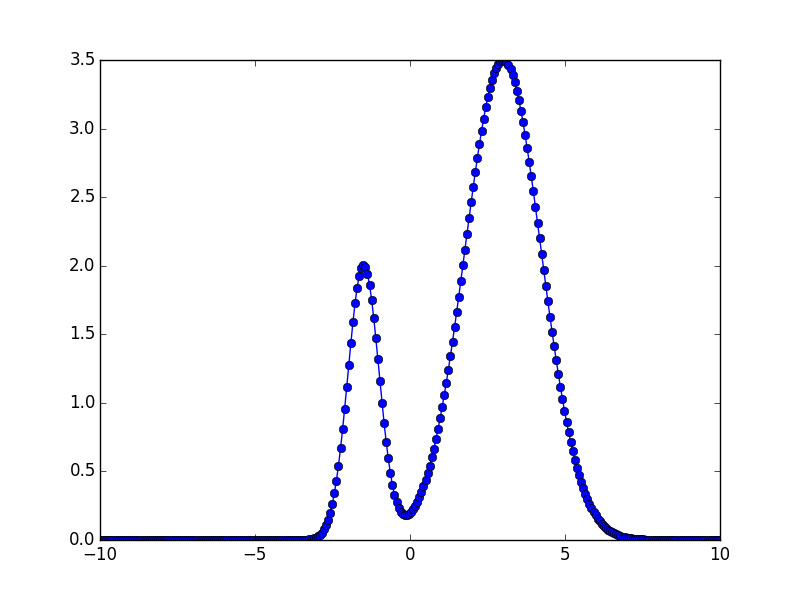
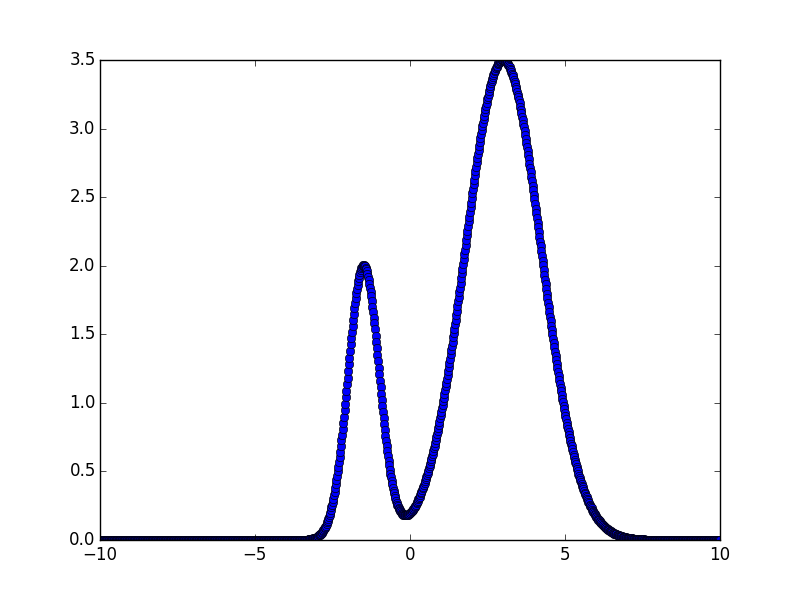
se normaliza funcion W(x)

Changed region(s): [[0.125, 0.09, 0.75, 0.9], [0.75, 0.87, 0.875, 0.9]]

diff --git a/w(x).py b/w(x).py
@@ -1,0 +1,24 @@
+from __future__ import division
+import matplotlib.pyplot as plt
+import numpy as np
+from scipy.integrate import trapz
+
+
+def w(x):
+    funcion = 3.5 * np.exp(-(x - 3.)**2 / 3.) + 2. * np.exp(-2 * (x + 1.5)**2)
+    return funcion
+
+x=np.linspace(-10,10,1e3)
+integral = trapz(w(x), x=x)
+
+def w_normalizado(x):
+    funcion = 3.5 * np.exp(-(x - 3.)**2 / 3.) + 2. * np.exp(-2 * (x + 1.5)**2)
+    return funcion / integral
+
+
+fig = plt.figure(1)
+fig.clf()
+plt.plot(x,w_normalizado(x), '-o')
+plt.show()
+plt.draw()
+plt.savefig('w(x)_normalizado.png')
